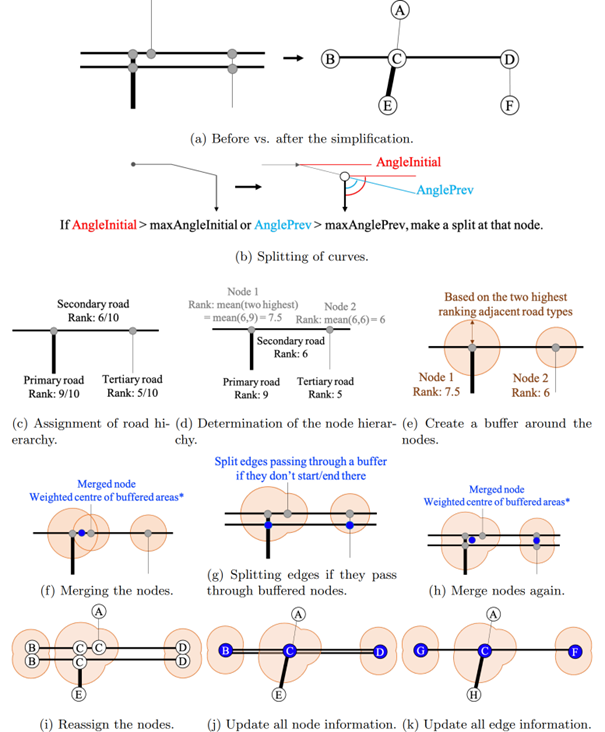
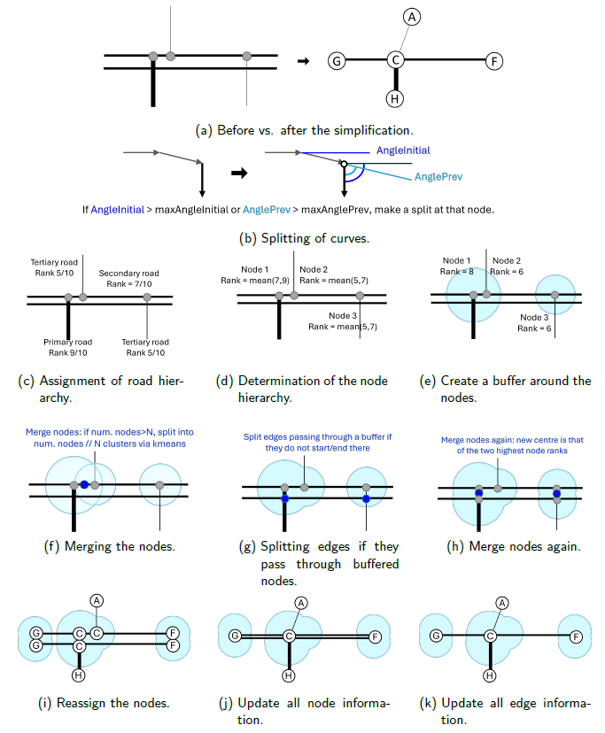
update paper

Changed region(s): [[0.0, 0.0, 0.9818, 1.0]]

diff --git a/paper/paper.md b/paper/paper.md
@@ -26,7 +26,7 @@ authors:
 affiliations:
  - name: Chair of Traffic Engineering and Control, Technical University of Munich, Germany
    index: 1
-date: 2 July 2025
+date: 16 June 2026
 bibliography: paper.bib
 
 ---
@@ -42,12 +42,17 @@ The [`OSMNetFusion`](https://github.com/VictoriaDhmn/OSMNetFusion) package is a 
 
 This Python package can simply be cloned, built, and then imported. The config file contains key parameters that can be set as desired, and a wide range of additional parameters that can be altered, e.g., to change the degree of simplification. This package leverages parallel programming to reduce runtime (if supported by the local machine). 
 
+# Statement of the field
+
 Several existing open-source tools address network simplification for various use-cases in geospatial and mobility analysis. For instance, Fleischmann and Vybornova focus on topological network simplification in a mathematically rigorous manner [@Fleischmann:2024] and recently published [`neatnet`](https://github.com/uscuni/neatnet) [@Fleischmann:2025]. Tools such as [`OSMnx`](https://github.com/gboeing/osmnx) [@Boeing:2024] also offer simplification capabilities to an extent, yet tag-information is lost. Ballo and Axhausen developed a road space reallocation tool [@Ballo:2024b], [`SNMan`](https://github.com/lukasballo/snman), which includes a topological network simplification with a reconstruction and visualisation of the lanes per link [@Ballo:2024a]. `OSMNetFusion` specifically aims to simplify multimodal networks (pedestrian, cyclist, motorised traffic) while retaining OSM tag information and integrating additional open-source data, an aspect typically absent in current solutions but crucial for comprehensive mobility analyses.
 
 
-# Methodology
+# Software Design 
 
-The framework is composed of three key steps: data retrieval, network enrichment, and network simplification. 
+The framework is composed of three key steps: data retrieval, network enrichment, and network simplification, as visualised in Figure \autoref{fig:softwareDesign}.
+
+![Software design of OSMNetFusion. \label{fig:softwareDesign}](../visualisations/Software_design.svg){width=95%}
+
 
 ## Data retrieval
 
@@ -75,6 +80,13 @@ It is no trivial task to merge nodes or edges which have a wide range of informa
 
 The consolidation process of the node/edge attributes (including the geometries) is explained in depth in the documentation. The result is a compact, well-organised network that is both efficient for computational tasks, accurate and information-rich for practical applications.
 
+# Research impact statement
+
+This tool has enabled various reserach contributions. It has been used to develop a bicycle routing model [@Dahmen:2025], to make more informed transport mode choice predictions [@Dahmen_MC] [@Dahmen_IMR], and to evaluate the impact of travel stress and infrastructure quality on the cycling mode share [@Takayasu:2024]. The reduced network complexity also facilitated mapmatching [@Dahmen_ML] [@Dahmen_RC].
+
+# AI Usage Disclosure
+
+Generative AI (GitHub Copilot, powered by Claude) was used to assist in creating a first draft of the the software design figure, which was then reviewed and edited by the authors. All software design decisions, algorithmic implementations, and technical content were curated and made by the authors themselves. 
 
 # Acknowledgements
 